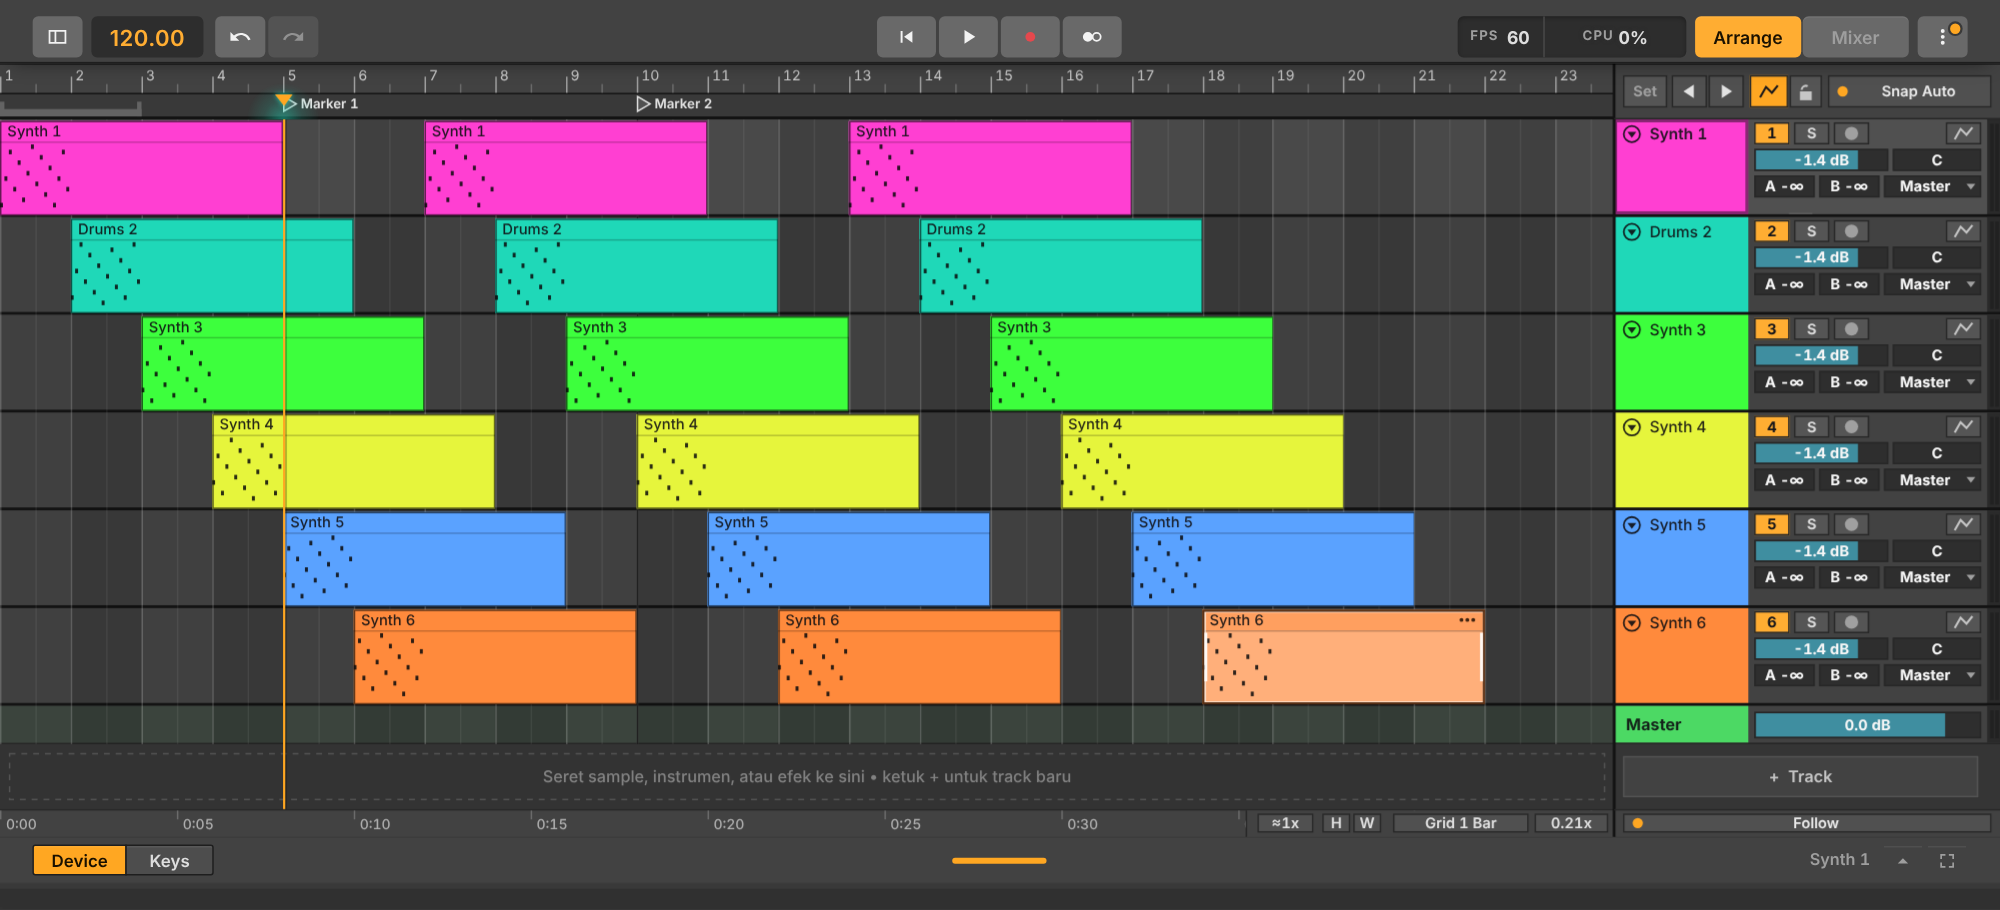
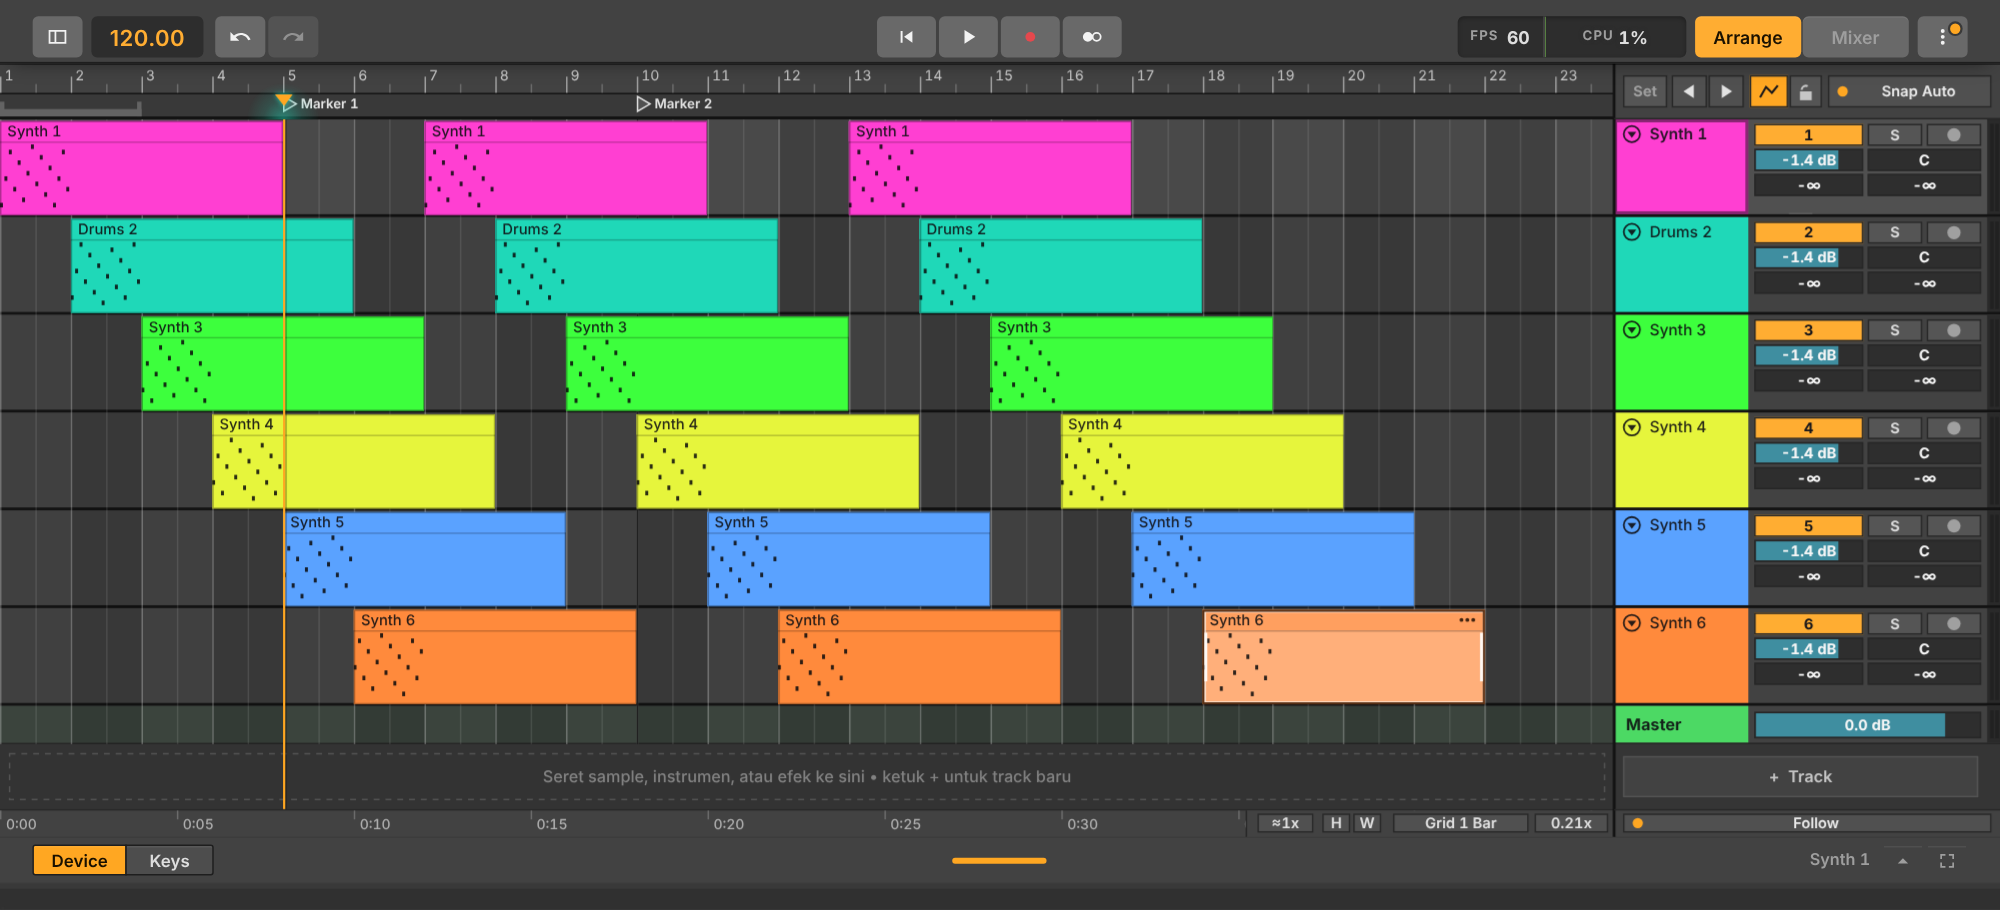
Track header and grid after Live 12's arrangement
- header controls in Live's three columns: activator | S | arm, volume | pan, send A | send B
  as bare dB values; no automation button or output field (both in the header menu)
- clearer grid lines in dark themes, faint clip edge
- header-ui-test follows the new layout

Claude-Session: https://claude.ai/code/session_016R99TjSh2G5U2VqVgMNHhT

diff --git a/js/timeline.js b/js/timeline.js
@@ -144,22 +144,17 @@ function hdr(i) {
   // Mixer column like Live's: small fixed controls, ALL the same height (15 px, text 10 px), never growing with the row. Row 1 = activator / S / arm /
   // automation, row 2 = volume + pan, row 3 = Send A | Send B, row 4 = output (Master) across the whole width, right under the sends.
   // A shorter row drops row 4, then 3, then 2. When the column is wide enough the sends and the output share row 3 (no row 4).
-  const sends = state.returns.length >= 2, gap = 3, fs = 10, CH = 15; r.fs = fs;
-  const bw = Math.max(20, Math.min(24, Math.floor((R - L - gp * 3) / 4)));
-  const ys = [0, 1, 2, 3].map((k) => y + 2 + k * (CH + gap)), fits = (k) => h >= ys[k] - y + CH + 3;   // + the 2 px row separator: a control never touches it
-  r.mute = { x: L, y: ys[0], w: auto ? bw + 14 : bw, h: CH, fs };
+  // Live 12's arrangement track controls (refs/live12/058): three columns - half / quarter / quarter of the width. Row 1 = track activator (the
+  // number) | Solo | Arm, row 2 = volume | pan, row 3 = send A | send B as bare values. No automation button and no output field in the header
+  // (Live keeps them in the menus: the header's menu has Output... and the automation lanes). Small fixed controls (15 px), never growing.
+  const sends = state.returns.length >= 2, gap = 2, fs = 10, CH = 15; r.fs = fs;
+  const ys = [0, 1, 2].map((k) => y + 3 + k * (CH + gap)), fits = (k) => h >= ys[k] - y + CH + 3;
+  const A = Math.round((R - L - gp * 2) * 0.5), Q = Math.floor((R - L - gp * 2 - A) / 2), xB = L + A + gp, xC = xB + Q + gp;
+  r.mute = { x: L, y: ys[0], w: auto ? Math.min(R - L, A + 14) : A, h: CH, fs };
   if (!auto) {
-    r.solo = { x: L + bw + gp, y: ys[0], w: bw, h: CH, fs }; r.arm = { x: L + (bw + gp) * 2, y: ys[0], w: bw, h: CH, fs };
-    if (R - bw >= L + (bw + gp) * 3 - 2) r.aut = { x: R - bw, y: ys[0], w: bw, h: CH, fs };
-    let k = 1;
-    if (fits(k)) { const vw = Math.round((R - L - gp) * 0.6); r.vol = { x: L, y: ys[k], w: vw, h: CH, fs }; r.pan = { x: L + vw + gp, y: ys[k], w: R - L - vw - gp, h: CH, fs }; k++; }
-    if (sends && r.vol && fits(k) && R - L >= 140) {                  // wide enough: Send A | Send B | output on ONE row - three rows hold every control
-      const sw = Math.round((R - L - gp * 2) * 0.28); r.sa = { x: L, y: ys[k], w: sw, h: CH, fs }; r.sb = { x: L + sw + gp, y: ys[k], w: sw, h: CH, fs };
-      r.out = { x: L + (sw + gp) * 2, y: ys[k], w: R - L - (sw + gp) * 2, h: CH, fs }; k++;
-    } else {
-      if (sends && r.vol && fits(k)) { const hw = Math.round((R - L - gp) / 2); r.sa = { x: L, y: ys[k], w: hw, h: CH, fs }; r.sb = { x: L + hw + gp, y: ys[k], w: R - L - hw - gp, h: CH, fs }; k++; }
-      if (r.vol && fits(k)) r.out = { x: L, y: ys[k], w: R - L, h: CH, fs };
-    }
+    r.solo = { x: xB, y: ys[0], w: Q, h: CH, fs }; r.arm = { x: xC, y: ys[0], w: R - xC, h: CH, fs };
+    if (fits(1)) { r.vol = { x: L, y: ys[1], w: A, h: CH, fs }; r.pan = { x: xB, y: ys[1], w: R - xB, h: CH, fs }; }
+    if (sends && r.vol && fits(2)) { r.sa = { x: L, y: ys[2], w: A, h: CH, fs }; r.sb = { x: xB, y: ys[2], w: R - xB, h: CH, fs }; }
   }
   return r;
 }
@@ -246,7 +241,7 @@ function drawClip(t, c, y, hh) {
   const body = c.muted ? '#9a9a9f' : isSel ? tint(t.color, 0.32) : t.color;
   ctx.fillStyle = body; ctx.fillRect(x, y0, w, h0);
   if (tall) { ctx.fillStyle = isSel ? tint(col, 0.18) : col; ctx.fillRect(x, y0, w, hd); ctx.fillStyle = 'rgba(0,0,0,.22)'; ctx.fillRect(x, y0 + hd, w, 1); }
-  ctx.strokeStyle = 'rgba(0,0,0,.6)'; ctx.lineWidth = 1; ctx.strokeRect(Math.round(x) + 0.5, y0 + 0.5, Math.max(0, Math.round(w) - 1), h0 - 1);
+  ctx.strokeStyle = 'rgba(0,0,0,.3)'; ctx.lineWidth = 1; ctx.strokeRect(Math.round(x) + 0.5, y0 + 0.5, Math.max(0, Math.round(w) - 1), h0 - 1);   // Live: a faint edge, no heavy outline
   if (isSel && !c.muted) { ctx.strokeStyle = 'rgba(255,255,255,.85)'; ctx.strokeRect(Math.round(x) + 1.5, y0 + 1.5, Math.max(0, Math.round(w) - 3), h0 - 3); }   // selected: a light inner edge
   if (tall && w > 18) {
     ctx.fillStyle = ink(col); ctx.font = FONT(500, 10); ctx.textBaseline = 'middle';   // Live: clip names regular weight
@@ -358,7 +353,7 @@ function draw() {
   const light = currentTone() === 'light', INK = light ? '0,0,0' : '255,255,255', GI = 0.4 + 1.2 * (prefs.gridInt == null ? 0.5 : prefs.gridInt), line = (a) => `rgba(${INK},${Math.min(0.6, a * GI).toFixed(3)})`;
   ctx.fillStyle = light ? 'rgba(0,0,0,.04)' : 'rgba(0,0,0,.12)';
   for (let b = Math.floor(Math.max(0, P.barAt(view.x0)) / kb) * kb; tx(P.barStart(b)) < CW; b += kb) { if ((b / kb) & 1) { const x0 = tx(P.barStart(b)), x1 = tx(P.barStart(b + kb)); ctx.fillRect(x0, RULER, x1 - x0, gy1 - RULER); } }
-  const tEnd = view.x0 + CW / view.ppt + g, sub = line(light ? 0.05 : 0.035), beat = line(light ? 0.09 : 0.065);
+  const tEnd = view.x0 + CW / view.ppt + g, sub = line(light ? 0.05 : 0.05), beat = line(light ? 0.09 : 0.10);
   eachGrid(view.x0 - g, tEnd, g, (t, j) => {
     const x = Math.round(tx(t));
     if (x < 0 || x > CW) return;
@@ -367,7 +362,7 @@ function draw() {
     ctx.fillStyle = r % P.MM.bt[j] === 0 ? beat : sub;
     ctx.fillRect(x, RULER, 1, gy1 - RULER);
   });
-  const barL = line(light ? 0.14 : 0.10), grpL = line(light ? 0.24 : 0.19);
+  const barL = line(light ? 0.14 : 0.15), grpL = line(light ? 0.24 : 0.26);   // Live's dark grid reads clearly (refs/live12/058)
   for (let b = Math.max(0, P.barAt(view.x0)); tx(P.barStart(b)) < CW; b++) { const x = Math.round(tx(P.barStart(b))); if (x >= 0) { ctx.fillStyle = b % kb ? barL : grpL; ctx.fillRect(x, RULER, 1, gy1 - RULER); } }
   if (P.state.sigs.length) { ctx.fillStyle = 'rgba(255,167,34,.3)'; for (const c of P.state.sigs) { const x = Math.round(tx(P.barStart(c.bar))); if (x >= 0 && x <= CW) ctx.fillRect(x, RULER, 1, gy1 - RULER); } }
   for (const m of state.markers) { const x = Math.round(tx(m.t)); if (x < 0 || x > CW) continue; ctx.fillStyle = C('#0e0e10'); ctx.fillRect(x, RULER, 1, gy1 - RULER); }   // Live: a dark line down from every locator
@@ -699,7 +694,7 @@ function drawHeads() {
     }
     if (r.vol) drawSlider(r.vol, Math.sqrt(clamp(t.vol / VMAX, 0, 1)), dbTxt(t.vol) + ' dB', false);
     if (r.pan) drawSlider(r.pan, (clamp(t.pan, -1, 1) + 1) / 2, panTxt(t.pan), true);
-    for (const [k, rc] of [[0, r.sa], [1, r.sb]]) if (rc) { const v = (t.send && t.send[k]) || 0; drawSlider(rc, v, 'AB'[k] + ' ' + dbTxt(v), false); }   // Live: sends in dB, -inf at zero
+    for (const [k, rc] of [[0, r.sa], [1, r.sb]]) if (rc) { const v = (t.send && t.send[k]) || 0; drawSlider(rc, v, dbTxt(v), false); }   // Live: the sends as bare dB values (-inf at zero), A over B by position
     if (r.hm) {                                                                            // folded row: horizontal meter well (two thin lanes, L over R)
       ctx.fillStyle = C('#161617'); ctx.fillRect(r.hm.x, r.hm.y, r.hm.w, r.hm.h);
       const lh = Math.max(1.5, (r.hm.h - 3) / 2); ctx.fillStyle = C('#101011'); ctx.fillRect(r.hm.x + 2, r.hm.y + 1, r.hm.w - 4, lh); ctx.fillRect(r.hm.x + 2, r.hm.y + 2 + lh, r.hm.w - 4, lh);

diff --git a/sw.js b/sw.js
@@ -1,5 +1,5 @@
 // Offline cache. The cache name contains a hash of every file, so a new deploy replaces the old cache automatically.
-const CACHE = 'mobiledaw-e1beecfee78a';
+const CACHE = 'mobiledaw-414e5ca53562';
 const ASSETS = ["./", "./css/app.css", "./css/ableton.css", "./css/float.css", "./css/live.css", "./icons/icon-192.png", "./icons/icon-512.png", "./icons/icon-maskable-512.png", "./index.html", "./js/about.js", "./js/aboutdata.js", "./js/audioedit.js", "./js/autocurve.js", "./js/automate.js", "./js/autosave.js", "./js/browser.js", "./js/chords.js", "./js/colorpick.js", "./js/defs.js", "./js/demos.js", "./js/devices.js", "./js/devviz.js", "./js/drumpad.js", "./js/edgeguard.js", "./js/editor.js", "./js/engine.js", "./js/engine/analog.js", "./js/engine/audioops.js", "./js/engine/cmdtext.js", "./js/engine/core.js", "./js/engine/dsp.js", "./js/engine/drift.js", "./js/engine/ds.js", "./js/engine/fx.js", "./js/engine/fx2.js", "./js/engine/fx3.js", "./js/engine/fx4.js", "./js/engine/fx5.js", "./js/engine/fx6.js", "./js/engine/fx7.js", "./js/engine/fx8.js", "./js/engine/granulator.js", "./js/engine/impulse.js", "./js/engine/instruments.js", "./js/engine/live.js", "./js/engine/meld.js", "./js/engine/meter.js", "./js/engine/mp3.js", "./js/engine/mp3tables.js", "./js/engine/nativesink.js", "./js/engine/operator.js", "./js/engine/phys.js", "./js/engine/poli.js", "./js/engine/sabio.js", "./js/engine/sf2.js", "./js/engine/simpler.js", "./js/engine/flmsyn.js", "./js/engine/hdgms.js", "./js/engine/hdmfx.js", "./js/engine/hdmini.js", "./js/engine/hdsaw.js", "./js/engine/smf.js", "./js/engine/stretchworker.js", "./js/engine/tmap.js", "./js/engine/wav.js", "./js/engine/waveops.js", "./js/engine/mdaw.wasm", "./js/engine/wasmengine.js", "./js/engine/web.js", "./js/engine/worklet-wasm.js", "./js/engine/worklet.js", "./js/floatwin.js", "./js/fps.js", "./js/fxviz.js", "./js/fxkit.js", "./js/flmpanels.js", "./js/flmfx.js", "./js/flm3osc.js", "./js/flmlayout.js", "./js/flmlive.js", "./js/slicerdetect.js", "./js/fxlaw.js", "./js/flmviz.js", "./js/gesture.js", "./js/history.js", "./js/import/als.js", "./js/import/build.js", "./js/import/flm.js", "./js/import/flp.js", "./js/import/fxmap.js", "./js/import/gm.js", "./js/import/index.js", "./js/import/ui.js", "./js/keymap.js", "./js/keys.js", "./js/layout.js", "./js/liveinst.js", "./js/liveui.js", "./js/log.js", "./js/main.js", "./js/midi.js", "./js/midiio.js", "./js/minimeters.js", "./js/mmdraw.js", "./js/native.js", "./js/perf.js", "./js/mixer.js", "./js/prefs.js", "./js/presetlib.js", "./js/presets.js", "./js/project.js", "./js/projects.js", "./js/pwa.js", "./js/quicksave.js", "./js/reorder.js", "./js/safdir.js", "./js/settingsui.js", "./js/storage.js", "./js/tempo.js", "./js/theme.js", "./js/timeline.js", "./js/topbar.js", "./js/touchhit.js", "./js/ui.js", "./js/uiscale.js", "./js/waveform.js", "./js/zip.js", "./manifest.json"];
 self.addEventListener('install', (e) => { e.waitUntil(caches.open(CACHE).then((c) => c.addAll(ASSETS)).then(() => self.skipWaiting())); });
 self.addEventListener('activate', (e) => {

diff --git a/docs/HANDOFF.md b/docs/HANDOFF.md
@@ -763,6 +763,7 @@ Permintaan pemilik: SEMUA efek dan instrumen diganti dengan set stok Ableton Liv
 - Tinta isi klip (waveform / not / nama) gelap untuk semua warna kecuali yang sangat gelap (ambang luminans 75), seperti Live 12.
 - **Chop… dan Tempo… dari Honeydew** (menu klip; `timeline.js chopClip / tempoClip`, dari `clips.rs every_ticks / chop` dan Half/Double): potong klip tiap 1/6..1 beat (mengikuti grid isi klip, offset diperhitungkan) atau klip audio di transien (deteksi Slicer, Sensitivity 0.25), maks 256 potong, satu undo; Half/Double Time = stretch 2x / 0.5x. Tes: `arr-live-test.mjs`.
 - Font arrangement disamakan dengan Live: nama track 10.5 px regular, nama klip regular, angka ruler 9.5 px regular abu.
+- **Header track = Live 12** (refs/live12/058, `timeline.js hdr`): tiga kolom ½ / ¼ / ¼: baris 1 aktivator (nomor) | S | arm, baris 2 volume | pan, baris 3 send A | send B (nilai dB polos). Tidak ada tombol otomasi dan isian output di header (ada di menu header: Output…, Lane otomasi…). Grid tema gelap lebih terang, tepi klip tipis. `header-ui-test.mjs` diperbarui.
 - Belum: instrumen replika Live (Drift, Operator, Analog, Poli, Meld, Wavetable, Simpler, Impulse, Granulator, Electric/Tension/Collision, DS) tidak diubah; penanda slice di display Slicer belum ada.
 
 - **Card modul FLM = device Live** (permintaan pemilik: bahasa desain, perilaku dan interaksi card FX Ableton Live): `fxkit.js flmLive` + komposisi per modul di `js/flmlive.js` (37 efek + Transistor Bass / Slicer), dibangun dari bagian yang sama dengan panel Live 12 (`k.dk` display gelap, `k.NT` angka oranye, `k.TL`, `lk-ch`). Pola: kolom knob kiri (`L`) | display (`D`: grafik `flmviz`, `handles` yang diseret seperti Live - EQ band bernomor, ring Filter freq/reso, Threshold Compressor / Gate / Limiter, crossover Multiband, X/Y Waveshaper & Multi FX, 8 band Graphic / Tuned EQ; `tabs` = tombol mode di bawah grafik; `rows` = baris angka di dalam display, `table` = tabel band ala Multiband Dynamics; `tap` keyboard Pitcher; `piano` Scale) | baris knob di bawah display (`B`, ala Chorus-Ensemble / Phaser-Flanger / Auto Pan) | kolom kanan (`R`) dengan Dry/Wet di bawah (`'-'`). Equalizer meniru EQ Eight: band terpilih (Freq / Gain / Q di kiri, tombol 1-4 + tipe + channel di bawah display). `{ sw }` = Sync ala Live (menu saat Sync, knob saat bebas). Tes interaksi nyata di `tools/flmfx-shots.mjs` (seret ring Filter, ketuk keyboard Pitcher 2). 3x Osc masih memakai `flmLayout` (tab).
